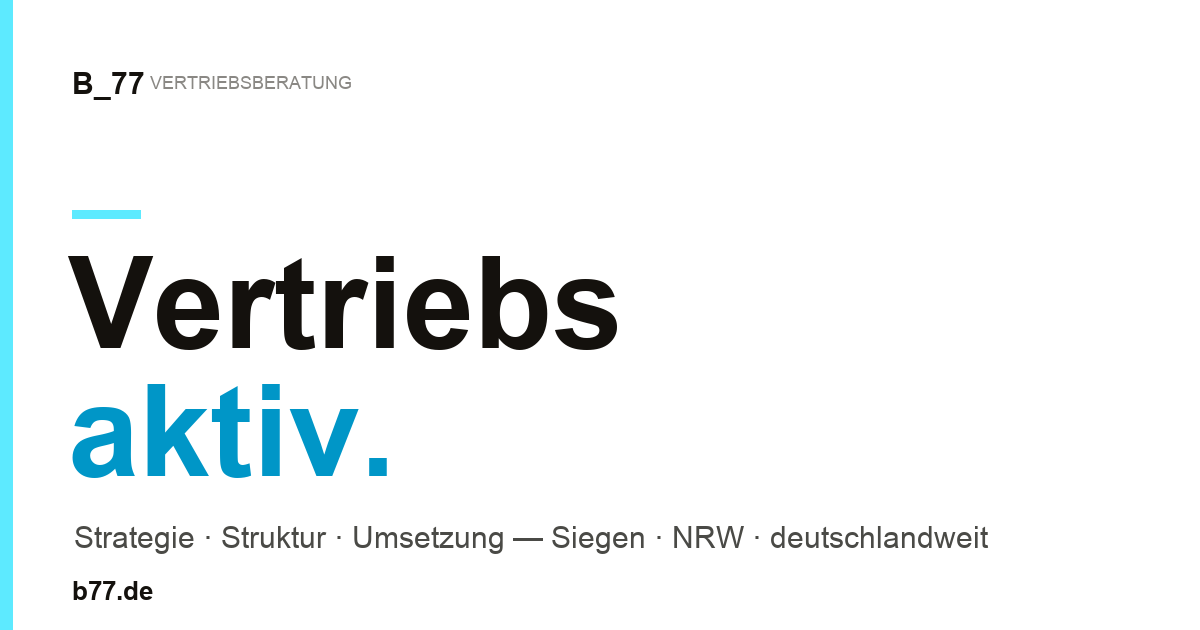
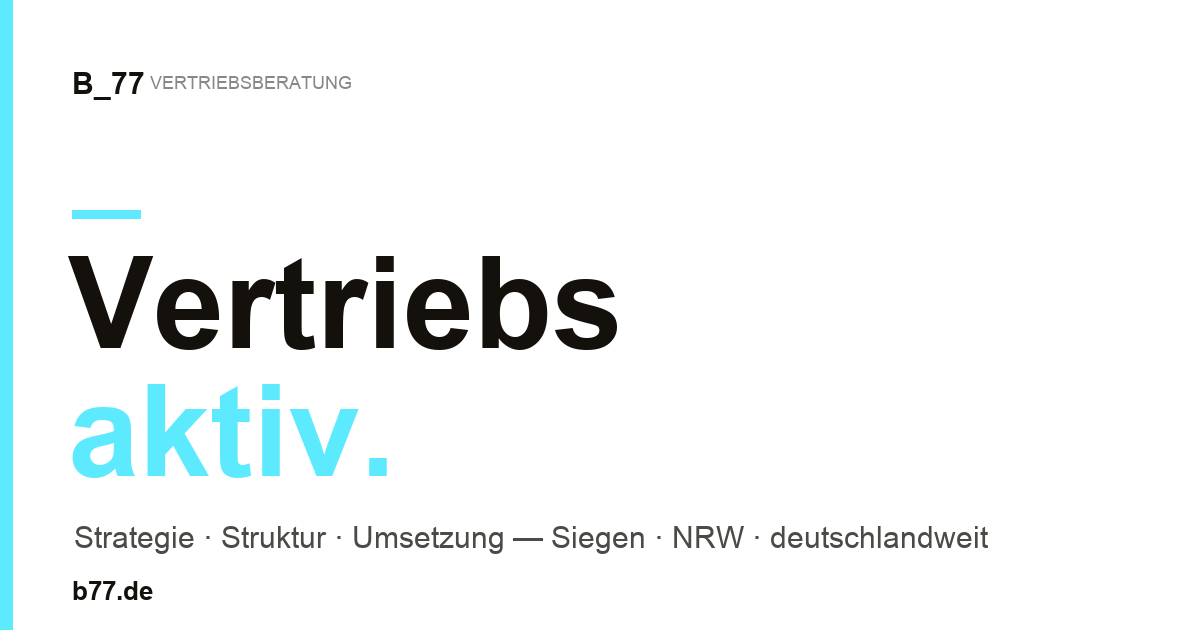
Signalfarbe: nur noch ein helles Cyan (#5DEAFF), kein Zwei-Ton; OG-Bild + Cache-Buster e

Changed region(s): [[0.0617, 0.6032, 0.3392, 0.754]]

diff --git a/interim-vertriebsleitung.html b/interim-vertriebsleitung.html
@@ -8,7 +8,7 @@
 <link rel="preconnect" href="https://fonts.googleapis.com">
 <link rel="preconnect" href="https://fonts.gstatic.com" crossorigin>
 <link href="https://fonts.googleapis.com/css2?family=Archivo:wght@400;500;600;700;800;900&family=Archivo+Black&family=Space+Mono:wght@400;700&display=swap" rel="stylesheet">
-<link rel="stylesheet" href="styles.css?v=20260620d">
+<link rel="stylesheet" href="styles.css?v=20260620e">
 <link rel="canonical" href="https://b77.de/interim-vertriebsleitung">
 <meta name="robots" content="index, follow">
 <meta name="author" content="Benjamin Loos">
@@ -29,7 +29,7 @@
 <script type="application/ld+json">
 {"@context":"https://schema.org","@type":"ProfessionalService","name":"B_77 Vertriebsberatung","alternateName":"B_77","description":"Erfahrener Interim-Vertriebsleiter für mittelständische Unternehmen. Sofort einsetzbar in Siegen, NRW und deutschlandweit. Vertrieb steuern, Strukturen aufbauen, Team führen.","url":"https://b77.de/interim-vertriebsleitung","logo":"https://b77.de/assets/B77_Logo_black.png","image":"https://b77.de/assets/og-b77.png","email":"kontakt@b77.de","telephone":"+49-271-89027837","founder":{"@type":"Person","name":"Benjamin Loos"},"foundingDate":"2017","address":{"@type":"PostalAddress","streetAddress":"Wallhausenstraße 1","postalCode":"57072","addressLocality":"Siegen","addressRegion":"Nordrhein-Westfalen","addressCountry":"DE"},"areaServed":[{"@type":"City","name":"Siegen"},{"@type":"AdministrativeArea","name":"Nordrhein-Westfalen"},{"@type":"Country","name":"Deutschland"}],"serviceType":["Vertriebsberatung","Vertriebsoptimierung","Aktiver Vertrieb","Neukundengewinnung","Vertriebsaufbau"],"priceRange":"€€€","openingHours":"Mo-Fr 08:30-18:00"}
 </script>
-<script src="/css/analytics.js?v=20260620d" defer></script>
+<script src="/css/analytics.js?v=20260620e" defer></script>
 </head>
 <body>
   <nav class="nav">
@@ -82,6 +82,6 @@
     <div class="footer__word-wrap"><div class="footer__word">B_77</div></div>
     <div class="footer__legal"><span>© 2026 B_77 — Alle Rechte vorbehalten.</span><span><a href="/impressum">Impressum · Datenschutz</a></span></div>
   </footer>
-<script src="script.js?v=20260620d"></script>
+<script src="script.js?v=20260620e"></script>
 </body>
 </html>

diff --git a/vertrieb-auslagern.html b/vertrieb-auslagern.html
@@ -8,7 +8,7 @@
 <link rel="preconnect" href="https://fonts.googleapis.com">
 <link rel="preconnect" href="https://fonts.gstatic.com" crossorigin>
 <link href="https://fonts.googleapis.com/css2?family=Archivo:wght@400;500;600;700;800;900&family=Archivo+Black&family=Space+Mono:wght@400;700&display=swap" rel="stylesheet">
-<link rel="stylesheet" href="styles.css?v=20260620d">
+<link rel="stylesheet" href="styles.css?v=20260620e">
 <link rel="canonical" href="https://b77.de/vertrieb-auslagern">
 <meta name="robots" content="index, follow">
 <meta name="author" content="Benjamin Loos">
@@ -29,7 +29,7 @@
 <script type="application/ld+json">
 {"@context":"https://schema.org","@type":"ProfessionalService","name":"B_77 Vertriebsberatung","alternateName":"B_77","description":"Vertrieb professionell auslagern: Akquise, Termine, Verkauf. Für Mittelstand in Siegen, NRW und deutschlandweit. Skalierbare Ergebnisse statt fester Vertriebskosten.","url":"https://b77.de/vertrieb-auslagern","logo":"https://b77.de/assets/B77_Logo_black.png","image":"https://b77.de/assets/og-b77.png","email":"kontakt@b77.de","telephone":"+49-271-89027837","founder":{"@type":"Person","name":"Benjamin Loos"},"foundingDate":"2017","address":{"@type":"PostalAddress","streetAddress":"Wallhausenstraße 1","postalCode":"57072","addressLocality":"Siegen","addressRegion":"Nordrhein-Westfalen","addressCountry":"DE"},"areaServed":[{"@type":"City","name":"Siegen"},{"@type":"AdministrativeArea","name":"Nordrhein-Westfalen"},{"@type":"Country","name":"Deutschland"}],"serviceType":["Vertriebsberatung","Vertriebsoptimierung","Aktiver Vertrieb","Neukundengewinnung","Vertriebsaufbau"],"priceRange":"€€€","openingHours":"Mo-Fr 08:30-18:00"}
 </script>
-<script src="/css/analytics.js?v=20260620d" defer></script>
+<script src="/css/analytics.js?v=20260620e" defer></script>
 </head>
 <body>
   <nav class="nav">
@@ -82,6 +82,6 @@
     <div class="footer__word-wrap"><div class="footer__word">B_77</div></div>
     <div class="footer__legal"><span>© 2026 B_77 — Alle Rechte vorbehalten.</span><span><a href="/impressum">Impressum · Datenschutz</a></span></div>
   </footer>
-<script src="script.js?v=20260620d"></script>
+<script src="script.js?v=20260620e"></script>
 </body>
 </html>

diff --git a/vertriebsstrategie.html b/vertriebsstrategie.html
@@ -8,7 +8,7 @@
 <link rel="preconnect" href="https://fonts.googleapis.com">
 <link rel="preconnect" href="https://fonts.gstatic.com" crossorigin>
 <link href="https://fonts.googleapis.com/css2?family=Archivo:wght@400;500;600;700;800;900&family=Archivo+Black&family=Space+Mono:wght@400;700&display=swap" rel="stylesheet">
-<link rel="stylesheet" href="styles.css?v=20260620d">
+<link rel="stylesheet" href="styles.css?v=20260620e">
 <link rel="canonical" href="https://b77.de/vertriebsstrategie">
 <meta name="robots" content="index, follow">
 <meta name="author" content="Benjamin Loos">
@@ -29,7 +29,7 @@
 <script type="application/ld+json">
 {"@context":"https://schema.org","@type":"ProfessionalService","name":"B_77 Vertriebsberatung","alternateName":"B_77","description":"Wirksame Vertriebsstrategie für mittelständische Unternehmen in Siegen, NRW und deutschlandweit. Strategie + Umsetzung aus einer Hand. Keine Folien — Ergebnisse.","url":"https://b77.de/vertriebsstrategie","logo":"https://b77.de/assets/B77_Logo_black.png","image":"https://b77.de/assets/og-b77.png","email":"kontakt@b77.de","telephone":"+49-271-89027837","founder":{"@type":"Person","name":"Benjamin Loos"},"foundingDate":"2017","address":{"@type":"PostalAddress","streetAddress":"Wallhausenstraße 1","postalCode":"57072","addressLocality":"Siegen","addressRegion":"Nordrhein-Westfalen","addressCountry":"DE"},"areaServed":[{"@type":"City","name":"Siegen"},{"@type":"AdministrativeArea","name":"Nordrhein-Westfalen"},{"@type":"Country","name":"Deutschland"}],"serviceType":["Vertriebsberatung","Vertriebsoptimierung","Aktiver Vertrieb","Neukundengewinnung","Vertriebsaufbau"],"priceRange":"€€€","openingHours":"Mo-Fr 08:30-18:00"}
 </script>
-<script src="/css/analytics.js?v=20260620d" defer></script>
+<script src="/css/analytics.js?v=20260620e" defer></script>
 </head>
 <body>
   <nav class="nav">
@@ -82,6 +82,6 @@
     <div class="footer__word-wrap"><div class="footer__word">B_77</div></div>
     <div class="footer__legal"><span>© 2026 B_77 — Alle Rechte vorbehalten.</span><span><a href="/impressum">Impressum · Datenschutz</a></span></div>
   </footer>
-<script src="script.js?v=20260620d"></script>
+<script src="script.js?v=20260620e"></script>
 </body>
 </html>

diff --git a/umsatz-steigern.html b/umsatz-steigern.html
@@ -8,7 +8,7 @@
 <link rel="preconnect" href="https://fonts.googleapis.com">
 <link rel="preconnect" href="https://fonts.gstatic.com" crossorigin>
 <link href="https://fonts.googleapis.com/css2?family=Archivo:wght@400;500;600;700;800;900&family=Archivo+Black&family=Space+Mono:wght@400;700&display=swap" rel="stylesheet">
-<link rel="stylesheet" href="styles.css?v=20260620d">
+<link rel="stylesheet" href="styles.css?v=20260620e">
 <link rel="canonical" href="https://b77.de/umsatz-steigern">
 <meta name="robots" content="index, follow">
 <meta name="author" content="Benjamin Loos">
@@ -29,7 +29,7 @@
 <script type="application/ld+json">
 {"@context":"https://schema.org","@type":"ProfessionalService","name":"B_77 Vertriebsberatung","alternateName":"B_77","description":"Mehr Umsatz für mittelständische Unternehmen — durch klare Vertriebsstrategie, aktive Kundengewinnung und systematisches Pricing. B_77 aus Siegen, deutschlandweit.","url":"https://b77.de/umsatz-steigern","logo":"https://b77.de/assets/B77_Logo_black.png","image":"https://b77.de/assets/og-b77.png","email":"kontakt@b77.de","telephone":"+49-271-89027837","founder":{"@type":"Person","name":"Benjamin Loos"},"foundingDate":"2017","address":{"@type":"PostalAddress","streetAddress":"Wallhausenstraße 1","postalCode":"57072","addressLocality":"Siegen","addressRegion":"Nordrhein-Westfalen","addressCountry":"DE"},"areaServed":[{"@type":"City","name":"Siegen"},{"@type":"AdministrativeArea","name":"Nordrhein-Westfalen"},{"@type":"Country","name":"Deutschland"}],"serviceType":["Vertriebsberatung","Vertriebsoptimierung","Aktiver Vertrieb","Neukundengewinnung","Vertriebsaufbau"],"priceRange":"€€€","openingHours":"Mo-Fr 08:30-18:00"}
 </script>
-<script src="/css/analytics.js?v=20260620d" defer></script>
+<script src="/css/analytics.js?v=20260620e" defer></script>
 </head>
 <body>
   <nav class="nav">
@@ -82,6 +82,6 @@
     <div class="footer__word-wrap"><div class="footer__word">B_77</div></div>
     <div class="footer__legal"><span>© 2026 B_77 — Alle Rechte vorbehalten.</span><span><a href="/impressum">Impressum · Datenschutz</a></span></div>
   </footer>
-<script src="script.js?v=20260620d"></script>
+<script src="script.js?v=20260620e"></script>
 </body>
 </html>

diff --git a/vertriebsberatung-bad-berleburg.html b/vertriebsberatung-bad-berleburg.html
@@ -8,7 +8,7 @@
 <link rel="preconnect" href="https://fonts.googleapis.com">
 <link rel="preconnect" href="https://fonts.gstatic.com" crossorigin>
 <link href="https://fonts.googleapis.com/css2?family=Archivo:wght@400;500;600;700;800;900&family=Archivo+Black&family=Space+Mono:wght@400;700&display=swap" rel="stylesheet">
-<link rel="stylesheet" href="styles.css?v=20260620d">
+<link rel="stylesheet" href="styles.css?v=20260620e">
 <link rel="canonical" href="https://b77.de/vertriebsberatung-bad-berleburg">
 <meta name="robots" content="index, follow">
 <meta name="author" content="Benjamin Loos">
@@ -29,7 +29,7 @@
 <script type="application/ld+json">
 {"@context":"https://schema.org","@type":"ProfessionalService","name":"B_77 Vertriebsberatung","alternateName":"B_77","description":"Vertriebsberatung für mittelständische Unternehmen in Bad Berleburg, NRW und deutschlandweit.","url":"https://b77.de/vertriebsberatung-bad-berleburg","logo":"https://b77.de/assets/B77_Logo_black.png","image":"https://b77.de/assets/og-b77.png","email":"kontakt@b77.de","telephone":"+49-271-89027837","founder":{"@type":"Person","name":"Benjamin Loos"},"foundingDate":"2017","address":{"@type":"PostalAddress","streetAddress":"Wallhausenstraße 1","postalCode":"57072","addressLocality":"Siegen","addressRegion":"Nordrhein-Westfalen","addressCountry":"DE"},"areaServed":[{"@type":"City","name":"Bad Berleburg"},{"@type":"AdministrativeArea","name":"Nordrhein-Westfalen"},{"@type":"Country","name":"Deutschland"}],"serviceType":["Vertriebsberatung","Vertriebsoptimierung","Aktiver Vertrieb","Neukundengewinnung","Vertriebsaufbau"],"priceRange":"€€€","openingHours":"Mo-Fr 08:30-18:00"}
 </script>
-<script src="/css/analytics.js?v=20260620d" defer></script>
+<script src="/css/analytics.js?v=20260620e" defer></script>
 </head>
 <body>
   <nav class="nav">
@@ -85,6 +85,6 @@
     <div class="footer__word-wrap"><div class="footer__word">B_77</div></div>
     <div class="footer__legal"><span>© 2026 B_77 — Alle Rechte vorbehalten.</span><span><a href="/impressum">Impressum · Datenschutz</a></span></div>
   </footer>
-<script src="script.js?v=20260620d"></script>
+<script src="script.js?v=20260620e"></script>
 </body>
 </html>

diff --git a/vertriebsberatung-maschinenbau.html b/vertriebsberatung-maschinenbau.html
@@ -8,7 +8,7 @@
 <link rel="preconnect" href="https://fonts.googleapis.com">
 <link rel="preconnect" href="https://fonts.gstatic.com" crossorigin>
 <link href="https://fonts.googleapis.com/css2?family=Archivo:wght@400;500;600;700;800;900&family=Archivo+Black&family=Space+Mono:wght@400;700&display=swap" rel="stylesheet">
-<link rel="stylesheet" href="styles.css?v=20260620d">
+<link rel="stylesheet" href="styles.css?v=20260620e">
 <link rel="canonical" href="https://b77.de/vertriebsberatung-maschinenbau">
 <meta name="robots" content="index, follow">
 <meta name="author" content="Benjamin Loos">
@@ -29,7 +29,7 @@
 <script type="application/ld+json">
 {"@context":"https://schema.org","@type":"ProfessionalService","name":"B_77 Vertriebsberatung","alternateName":"B_77","description":"Vertriebsberatung für mittelständische Unternehmen in Maschinenbau, NRW und deutschlandweit.","url":"https://b77.de/vertriebsberatung-maschinenbau","logo":"https://b77.de/assets/B77_Logo_black.png","image":"https://b77.de/assets/og-b77.png","email":"kontakt@b77.de","telephone":"+49-271-89027837","founder":{"@type":"Person","name":"Benjamin Loos"},"foundingDate":"2017","address":{"@type":"PostalAddress","streetAddress":"Wallhausenstraße 1","postalCode":"57072","addressLocality":"Siegen","addressRegion":"Nordrhein-Westfalen","addressCountry":"DE"},"areaServed":[{"@type":"City","name":"Maschinenbau"},{"@type":"AdministrativeArea","name":"Nordrhein-Westfalen"},{"@type":"Country","name":"Deutschland"}],"serviceType":["Vertriebsberatung","Vertriebsoptimierung","Aktiver Vertrieb","Neukundengewinnung","Vertriebsaufbau"],"priceRange":"€€€","openingHours":"Mo-Fr 08:30-18:00"}
 </script>
-<script src="/css/analytics.js?v=20260620d" defer></script>
+<script src="/css/analytics.js?v=20260620e" defer></script>
 </head>
 <body>
   <nav class="nav">
@@ -85,6 +85,6 @@
     <div class="footer__word-wrap"><div class="footer__word">B_77</div></div>
     <div class="footer__legal"><span>© 2026 B_77 — Alle Rechte vorbehalten.</span><span><a href="/impressum">Impressum · Datenschutz</a></span></div>
   </footer>
-<script src="script.js?v=20260620d"></script>
+<script src="script.js?v=20260620e"></script>
 </body>
 </html>

diff --git a/vertriebsberatung-duesseldorf.html b/vertriebsberatung-duesseldorf.html
@@ -8,7 +8,7 @@
 <link rel="preconnect" href="https://fonts.googleapis.com">
 <link rel="preconnect" href="https://fonts.gstatic.com" crossorigin>
 <link href="https://fonts.googleapis.com/css2?family=Archivo:wght@400;500;600;700;800;900&family=Archivo+Black&family=Space+Mono:wght@400;700&display=swap" rel="stylesheet">
-<link rel="stylesheet" href="styles.css?v=20260620d">
+<link rel="stylesheet" href="styles.css?v=20260620e">
 <link rel="canonical" href="https://b77.de/vertriebsberatung-duesseldorf">
 <meta name="robots" content="index, follow">
 <meta name="author" content="Benjamin Loos">
@@ -29,7 +29,7 @@
 <script type="application/ld+json">
 {"@context":"https://schema.org","@type":"ProfessionalService","name":"B_77 Vertriebsberatung","alternateName":"B_77","description":"Vertriebsberatung für mittelständische Unternehmen in Düsseldorf, NRW und deutschlandweit.","url":"https://b77.de/vertriebsberatung-duesseldorf","logo":"https://b77.de/assets/B77_Logo_black.png","image":"https://b77.de/assets/og-b77.png","email":"kontakt@b77.de","telephone":"+49-271-89027837","founder":{"@type":"Person","name":"Benjamin Loos"},"foundingDate":"2017","address":{"@type":"PostalAddress","streetAddress":"Wallhausenstraße 1","postalCode":"57072","addressLocality":"Siegen","addressRegion":"Nordrhein-Westfalen","addressCountry":"DE"},"areaServed":[{"@type":"City","name":"Düsseldorf"},{"@type":"AdministrativeArea","name":"Nordrhein-Westfalen"},{"@type":"Country","name":"Deutschland"}],"serviceType":["Vertriebsberatung","Vertriebsoptimierung","Aktiver Vertrieb","Neukundengewinnung","Vertriebsaufbau"],"priceRange":"€€€","openingHours":"Mo-Fr 08:30-18:00"}
 </script>
-<script src="/css/analytics.js?v=20260620d" defer></script>
+<script src="/css/analytics.js?v=20260620e" defer></script>
 </head>
 <body>
   <nav class="nav">
@@ -85,6 +85,6 @@
     <div class="footer__word-wrap"><div class="footer__word">B_77</div></div>
     <div class="footer__legal"><span>© 2026 B_77 — Alle Rechte vorbehalten.</span><span><a href="/impressum">Impressum · Datenschutz</a></span></div>
   </footer>
-<script src="script.js?v=20260620d"></script>
+<script src="script.js?v=20260620e"></script>
 </body>
 </html>

diff --git a/vertriebsberatung-gummersbach.html b/vertriebsberatung-gummersbach.html
@@ -8,7 +8,7 @@
 <link rel="preconnect" href="https://fonts.googleapis.com">
 <link rel="preconnect" href="https://fonts.gstatic.com" crossorigin>
 <link href="https://fonts.googleapis.com/css2?family=Archivo:wght@400;500;600;700;800;900&family=Archivo+Black&family=Space+Mono:wght@400;700&display=swap" rel="stylesheet">
-<link rel="stylesheet" href="styles.css?v=20260620d">
+<link rel="stylesheet" href="styles.css?v=20260620e">
 <link rel="canonical" href="https://b77.de/vertriebsberatung-gummersbach">
 <meta name="robots" content="index, follow">
 <meta name="author" content="Benjamin Loos">
@@ -29,7 +29,7 @@
 <script type="application/ld+json">
 {"@context":"https://schema.org","@type":"ProfessionalService","name":"B_77 Vertriebsberatung","alternateName":"B_77","description":"Vertriebsberatung für mittelständische Unternehmen in Gummersbach, NRW und deutschlandweit.","url":"https://b77.de/vertriebsberatung-gummersbach","logo":"https://b77.de/assets/B77_Logo_black.png","image":"https://b77.de/assets/og-b77.png","email":"kontakt@b77.de","telephone":"+49-271-89027837","founder":{"@type":"Person","name":"Benjamin Loos"},"foundingDate":"2017","address":{"@type":"PostalAddress","streetAddress":"Wallhausenstraße 1","postalCode":"57072","addressLocality":"Siegen","addressRegion":"Nordrhein-Westfalen","addressCountry":"DE"},"areaServed":[{"@type":"City","name":"Gummersbach"},{"@type":"AdministrativeArea","name":"Nordrhein-Westfalen"},{"@type":"Country","name":"Deutschland"}],"serviceType":["Vertriebsberatung","Vertriebsoptimierung","Aktiver Vertrieb","Neukundengewinnung","Vertriebsaufbau"],"priceRange":"€€€","openingHours":"Mo-Fr 08:30-18:00"}
 </script>
-<script src="/css/analytics.js?v=20260620d" defer></script>
+<script src="/css/analytics.js?v=20260620e" defer></script>
 </head>
 <body>
   <nav class="nav">
@@ -85,6 +85,6 @@
     <div class="footer__word-wrap"><div class="footer__word">B_77</div></div>
     <div class="footer__legal"><span>© 2026 B_77 — Alle Rechte vorbehalten.</span><span><a href="/impressum">Impressum · Datenschutz</a></span></div>
   </footer>
-<script src="script.js?v=20260620d"></script>
+<script src="script.js?v=20260620e"></script>
 </body>
 </html>

diff --git a/vertriebsberatung-hilchenbach.html b/vertriebsberatung-hilchenbach.html
@@ -8,7 +8,7 @@
 <link rel="preconnect" href="https://fonts.googleapis.com">
 <link rel="preconnect" href="https://fonts.gstatic.com" crossorigin>
 <link href="https://fonts.googleapis.com/css2?family=Archivo:wght@400;500;600;700;800;900&family=Archivo+Black&family=Space+Mono:wght@400;700&display=swap" rel="stylesheet">
-<link rel="stylesheet" href="styles.css?v=20260620d">
+<link rel="stylesheet" href="styles.css?v=20260620e">
 <link rel="canonical" href="https://b77.de/vertriebsberatung-hilchenbach">
 <meta name="robots" content="index, follow">
 <meta name="author" content="Benjamin Loos">
@@ -29,7 +29,7 @@
 <script type="application/ld+json">
 {"@context":"https://schema.org","@type":"ProfessionalService","name":"B_77 Vertriebsberatung","alternateName":"B_77","description":"Vertriebsberatung für mittelständische Unternehmen in Hilchenbach, NRW und deutschlandweit.","url":"https://b77.de/vertriebsberatung-hilchenbach","logo":"https://b77.de/assets/B77_Logo_black.png","image":"https://b77.de/assets/og-b77.png","email":"kontakt@b77.de","telephone":"+49-271-89027837","founder":{"@type":"Person","name":"Benjamin Loos"},"foundingDate":"2017","address":{"@type":"PostalAddress","streetAddress":"Wallhausenstraße 1","postalCode":"57072","addressLocality":"Siegen","addressRegion":"Nordrhein-Westfalen","addressCountry":"DE"},"areaServed":[{"@type":"City","name":"Hilchenbach"},{"@type":"AdministrativeArea","name":"Nordrhein-Westfalen"},{"@type":"Country","name":"Deutschland"}],"serviceType":["Vertriebsberatung","Vertriebsoptimierung","Aktiver Vertrieb","Neukundengewinnung","Vertriebsaufbau"],"priceRange":"€€€","openingHours":"Mo-Fr 08:30-18:00"}
 </script>
-<script src="/css/analytics.js?v=20260620d" defer></script>
+<script src="/css/analytics.js?v=20260620e" defer></script>
 </head>
 <body>
   <nav class="nav">
@@ -85,6 +85,6 @@
     <div class="footer__word-wrap"><div class="footer__word">B_77</div></div>
     <div class="footer__legal"><span>© 2026 B_77 — Alle Rechte vorbehalten.</span><span><a href="/impressum">Impressum · Datenschutz</a></span></div>
   </footer>
-<script src="script.js?v=20260620d"></script>
+<script src="script.js?v=20260620e"></script>
 </body>
 </html>

diff --git a/vertriebsberatung-dillenburg.html b/vertriebsberatung-dillenburg.html
@@ -8,7 +8,7 @@
 <link rel="preconnect" href="https://fonts.googleapis.com">
 <link rel="preconnect" href="https://fonts.gstatic.com" crossorigin>
 <link href="https://fonts.googleapis.com/css2?family=Archivo:wght@400;500;600;700;800;900&family=Archivo+Black&family=Space+Mono:wght@400;700&display=swap" rel="stylesheet">
-<link rel="stylesheet" href="styles.css?v=20260620d">
+<link rel="stylesheet" href="styles.css?v=20260620e">
 <link rel="canonical" href="https://b77.de/vertriebsberatung-dillenburg">
 <meta name="robots" content="index, follow">
 <meta name="author" content="Benjamin Loos">
@@ -29,7 +29,7 @@
 <script type="application/ld+json">
 {"@context":"https://schema.org","@type":"ProfessionalService","name":"B_77 Vertriebsberatung","alternateName":"B_77","description":"Vertriebsberatung für mittelständische Unternehmen in Dillenburg, NRW und deutschlandweit.","url":"https://b77.de/vertriebsberatung-dillenburg","logo":"https://b77.de/assets/B77_Logo_black.png","image":"https://b77.de/assets/og-b77.png","email":"kontakt@b77.de","telephone":"+49-271-89027837","founder":{"@type":"Person","name":"Benjamin Loos"},"foundingDate":"2017","address":{"@type":"PostalAddress","streetAddress":"Wallhausenstraße 1","postalCode":"57072","addressLocality":"Siegen","addressRegion":"Nordrhein-Westfalen","addressCountry":"DE"},"areaServed":[{"@type":"City","name":"Dillenburg"},{"@type":"AdministrativeArea","name":"Nordrhein-Westfalen"},{"@type":"Country","name":"Deutschland"}],"serviceType":["Vertriebsberatung","Vertriebsoptimierung","Aktiver Vertrieb","Neukundengewinnung","Vertriebsaufbau"],"priceRange":"€€€","openingHours":"Mo-Fr 08:30-18:00"}
 </script>
-<script src="/css/analytics.js?v=20260620d" defer></script>
+<script src="/css/analytics.js?v=20260620e" defer></script>
 </head>
 <body>
   <nav class="nav">
@@ -85,6 +85,6 @@
     <div class="footer__word-wrap"><div class="footer__word">B_77</div></div>
     <div class="footer__legal"><span>© 2026 B_77 — Alle Rechte vorbehalten.</span><span><a href="/impressum">Impressum · Datenschutz</a></span></div>
   </footer>
-<script src="script.js?v=20260620d"></script>
+<script src="script.js?v=20260620e"></script>
 </body>
 </html>

diff --git a/vertriebsberatung-lennestadt.html b/vertriebsberatung-lennestadt.html
@@ -8,7 +8,7 @@
 <link rel="preconnect" href="https://fonts.googleapis.com">
 <link rel="preconnect" href="https://fonts.gstatic.com" crossorigin>
 <link href="https://fonts.googleapis.com/css2?family=Archivo:wght@400;500;600;700;800;900&family=Archivo+Black&family=Space+Mono:wght@400;700&display=swap" rel="stylesheet">
-<link rel="stylesheet" href="styles.css?v=20260620d">
+<link rel="stylesheet" href="styles.css?v=20260620e">
 <link rel="canonical" href="https://b77.de/vertriebsberatung-lennestadt">
 <meta name="robots" content="index, follow">
 <meta name="author" content="Benjamin Loos">
@@ -29,7 +29,7 @@
 <script type="application/ld+json">
 {"@context":"https://schema.org","@type":"ProfessionalService","name":"B_77 Vertriebsberatung","alternateName":"B_77","description":"Vertriebsberatung für mittelständische Unternehmen in Lennestadt, NRW und deutschlandweit.","url":"https://b77.de/vertriebsberatung-lennestadt","logo":"https://b77.de/assets/B77_Logo_black.png","image":"https://b77.de/assets/og-b77.png","email":"kontakt@b77.de","telephone":"+49-271-89027837","founder":{"@type":"Person","name":"Benjamin Loos"},"foundingDate":"2017","address":{"@type":"PostalAddress","streetAddress":"Wallhausenstraße 1","postalCode":"57072","addressLocality":"Siegen","addressRegion":"Nordrhein-Westfalen","addressCountry":"DE"},"areaServed":[{"@type":"City","name":"Lennestadt"},{"@type":"AdministrativeArea","name":"Nordrhein-Westfalen"},{"@type":"Country","name":"Deutschland"}],"serviceType":["Vertriebsberatung","Vertriebsoptimierung","Aktiver Vertrieb","Neukundengewinnung","Vertriebsaufbau"],"priceRange":"€€€","openingHours":"Mo-Fr 08:30-18:00"}
 </script>
-<script src="/css/analytics.js?v=20260620d" defer></script>
+<script src="/css/analytics.js?v=20260620e" defer></script>
 </head>
 <body>
   <nav class="nav">
@@ -85,6 +85,6 @@
     <div class="footer__word-wrap"><div class="footer__word">B_77</div></div>
     <div class="footer__legal"><span>© 2026 B_77 — Alle Rechte vorbehalten.</span><span><a href="/impressum">Impressum · Datenschutz</a></span></div>
   </footer>
-<script src="script.js?v=20260620d"></script>
+<script src="script.js?v=20260620e"></script>
 </body>
 </html>

diff --git a/vertriebsberatung-attendorn.html b/vertriebsberatung-attendorn.html
@@ -8,7 +8,7 @@
 <link rel="preconnect" href="https://fonts.googleapis.com">
 <link rel="preconnect" href="https://fonts.gstatic.com" crossorigin>
 <link href="https://fonts.googleapis.com/css2?family=Archivo:wght@400;500;600;700;800;900&family=Archivo+Black&family=Space+Mono:wght@400;700&display=swap" rel="stylesheet">
-<link rel="stylesheet" href="styles.css?v=20260620d">
+<link rel="stylesheet" href="styles.css?v=20260620e">
 <link rel="canonical" href="https://b77.de/vertriebsberatung-attendorn">
 <meta name="robots" content="index, follow">
 <meta name="author" content="Benjamin Loos">
@@ -29,7 +29,7 @@
 <script type="application/ld+json">
 {"@context":"https://schema.org","@type":"ProfessionalService","name":"B_77 Vertriebsberatung","alternateName":"B_77","description":"Vertriebsberatung für mittelständische Unternehmen in Attendorn, NRW und deutschlandweit.","url":"https://b77.de/vertriebsberatung-attendorn","logo":"https://b77.de/assets/B77_Logo_black.png","image":"https://b77.de/assets/og-b77.png","email":"kontakt@b77.de","telephone":"+49-271-89027837","founder":{"@type":"Person","name":"Benjamin Loos"},"foundingDate":"2017","address":{"@type":"PostalAddress","streetAddress":"Wallhausenstraße 1","postalCode":"57072","addressLocality":"Siegen","addressRegion":"Nordrhein-Westfalen","addressCountry":"DE"},"areaServed":[{"@type":"City","name":"Attendorn"},{"@type":"AdministrativeArea","name":"Nordrhein-Westfalen"},{"@type":"Country","name":"Deutschland"}],"serviceType":["Vertriebsberatung","Vertriebsoptimierung","Aktiver Vertrieb","Neukundengewinnung","Vertriebsaufbau"],"priceRange":"€€€","openingHours":"Mo-Fr 08:30-18:00"}
 </script>
-<script src="/css/analytics.js?v=20260620d" defer></script>
+<script src="/css/analytics.js?v=20260620e" defer></script>
 </head>
 <body>
   <nav class="nav">
@@ -85,6 +85,6 @@
     <div class="footer__word-wrap"><div class="footer__word">B_77</div></div>
     <div class="footer__legal"><span>© 2026 B_77 — Alle Rechte vorbehalten.</span><span><a href="/impressum">Impressum · Datenschutz</a></span></div>
   </footer>
-<script src="script.js?v=20260620d"></script>
+<script src="script.js?v=20260620e"></script>
 </body>
 </html>
